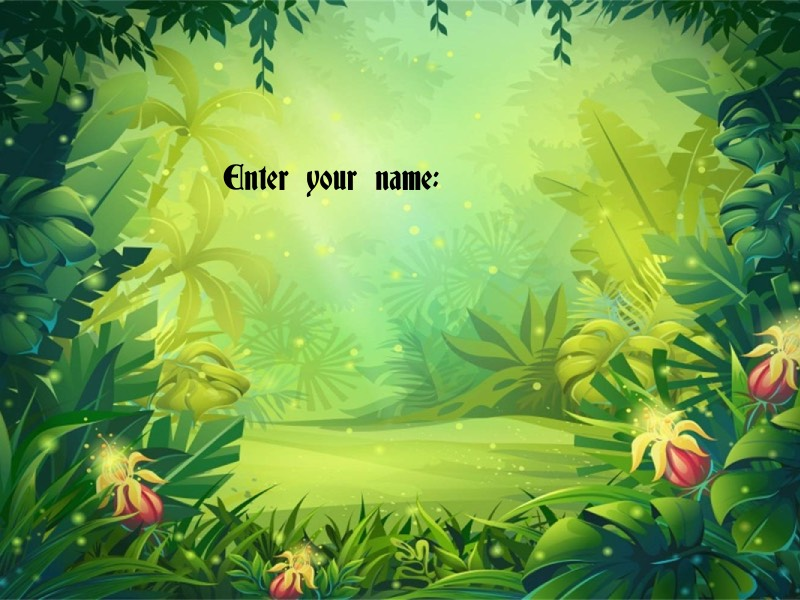
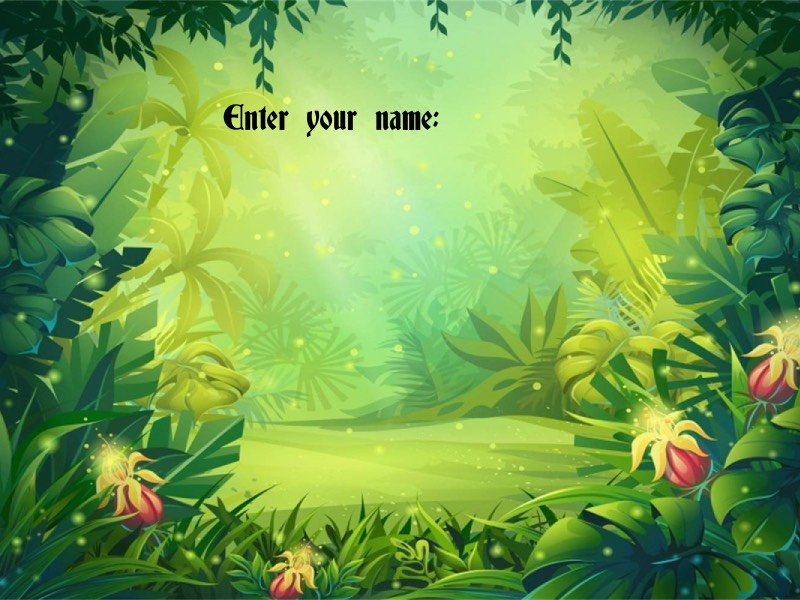
MySketch

Changed region(s): [[0.2812, 0.27, 0.5625, 0.33], [0.2812, 0.15, 0.5625, 0.24]]

diff --git a/src/ibongadarnagame/MySketch.java b/src/ibongadarnagame/MySketch.java
@@ -10,6 +10,8 @@ import processing.core.PImage;
  * @author 343330528
  */
 public class MySketch extends PApplet {
+    Player player; //Player object representing character
+    
     //Variables
     int stage = 0; //Current stage of the game starts at 0
     String userInput = ""; //Stores user input text
@@ -27,7 +29,9 @@ public class MySketch extends PApplet {
     int traitDistribution; //0 means neutral, 1 means high strength, 2 means high intelligence
     int currentStrengthPoints = 0; //Current number of character trait points assigned to strength
     int currentIntelligencePoints = 0; //Current number of character trait points assigned to intelligence
-    boolean pointsError = false; //True if not all character trait points have been distributed (error0
+    boolean pointsError = false; //True if not all character trait points have been distributed (error)
+    //Variables for Stage 2 (Fork in the Road)
+    boolean willFightBoar; //True if player chooses the path with the boar
     
     
     //Buttons
@@ -117,6 +121,14 @@ public class MySketch extends PApplet {
     PImage one;     //One point assigned to trait
     PImage two;     //Two points assigned to trait
     PImage pointsErrorMessage; //Error message for if character trait points have not been distributed
+    //Declare images for Stage 2 (Leaving Castle)
+    PImage castleBG; //Castle background
+    //Declare images for Stage 3 (Fork in the Road)
+    PImage forkInTheRoadBG; //Fork in the road background
+    //Declare iamges for Stage 4 (Encounter Boar)
+    PImage encounterBoarBG; //Background if user chooses path with the boar
+    PImage noBoarBG; //Background if user does not choose path with the boar
+    PImage boar; //Wild boar
     
     
     
@@ -127,7 +139,6 @@ public class MySketch extends PApplet {
     public void setup() {
         background(100, 100, 100); ////Set background
         textSize(20); //Set text size
-        Player player; //Player object representing character
         
         //Load images
         //Load images for Stage 0 (Main Menu)
@@ -183,6 +194,18 @@ public class MySketch extends PApplet {
         
         pointsErrorMessage = loadImage("images/pointserror.png");  //Error message for incomplete point distribution
         
+        //Load images for Stage 2 (Leaving Castle)
+        castleBG = loadImage("images/castlebg.jpg");  //Castle background
+        
+        //Load images for Stage 3 (Fork in the Road)
+        forkInTheRoadBG = loadImage("images/forkintheroadbg.jpg");  //Fork in the road background
+        
+        //Load images for Stage 4 (Encounter Boar)
+        encounterBoarBG = loadImage("images/encounterboarbg.jpg");  //Background if user chooses path with the boar
+        noBoarBG = loadImage("images/noboarbg.jpg");  //Background if user does not choose path with the boar
+        boar = loadImage("images/boar.png"); //Wild boar
+        
+        
         
     }
     
@@ -221,12 +244,17 @@ public class MySketch extends PApplet {
             //Set fill colour to black for user input text
             fill(0);
             //Display user input text
-            text(userInput, 450, 185);
+            text(userInput, 450, 125);
             
             //If user presses enter to confirm their chosen name but the name is not between 1 and 10 characters long
             if(nameError) 
-                image(nameErrorMessage, 225, 200); //Display error message regarding name length
-            ////Remember to set it back to false and put default name "don juan" as well as clothes
+                image(nameErrorMessage, 225, 140); //Display error message regarding name length
+            
+            //Draw character below name
+            if (customCharacter)
+                image(currentChoice, 312, 180); 
+            else
+                image(character1, 312, 180);
             
             
         
@@ -248,7 +276,7 @@ public class MySketch extends PApplet {
                 currentChoice = character3; //Set current character clothing choice to be displayed as character v3
             
             //Draw user's current character clothing choice (v1/v2/v3)
-            image(currentChoice, 0, 0);
+            image(currentChoice, 312, 167);
                 
             
             //Display button options
@@ -328,29 +356,63 @@ public class MySketch extends PApplet {
             image(pressSpaceToContinue, 280, 450);
             
             
-            /**
+            
             if (customName && customCharacter) {
                 if (chooseCharacter1)
-                    player = new Player(this, 0, 0, enteredName, int characterTraits, Inventory inventory, String imagePat);
+                    player = new Player(this, 155, 255, enteredName, traitDistribution, new Inventory(3), "images/chosenCharacter1.png");
                 else if (chooseCharacter2)
-                    player = new Player(this, 0, 0, enteredName, int characterTraits, Inventory inventory, String imagePat);
+                    player = new Player(this, 155, 255, enteredName, traitDistribution, new Inventory(3), "images/chosenCharacter2.png");
                 else
-                    player = new Player(this, 0, 0, enteredName, int characterTraits, Inventory inventory, String imagePat);
+                    player = new Player(this, 155, 255, enteredName, traitDistribution, new Inventory(3), "images/chosenCharacter3.png");
             } else if (customName) {
-                player = new Player(this, 0, 0, enteredName, int characterTraits, Inventory inventory);
+                player = new Player(this, 155, 255, enteredName, traitDistribution, new Inventory(3));
             } else if (customCharacter) {
                 if (chooseCharacter1)
-                   player = new Player(this, 0, 0, int characterTraits, Inventory inventory, String imagePat);
-               else if (chooseCharacter2)
-                   player = new Player(this, 0, 0, int characterTraits, Inventory inventory, String imagePat);
-               else
-                   player = new Player(this, 0, 0, int characterTraits, Inventory inventory, String imagePat);
+                   player = new Player(this, 155, 255, traitDistribution, new Inventory(3), "images/chosenCharacter1.png");
+                else if (chooseCharacter2)
+                   player = new Player(this, 155, 255, traitDistribution, new Inventory(3), "images/chosenCharacter2.png");
+                else
+                   player = new Player(this, 155, 255, traitDistribution, new Inventory(3), "images/chosenCharacter3.png");
             } else {
-                player = new Player(this, 0, 0, int characterTraits, Inventory inventory);
+                player = new Player(this, 155, 255, traitDistribution, new Inventory(3));
             }
-            * */
-                
-        } 
+           
+        //Leaving Castle
+        } else if (stage == 2) {
+            //Set castle background
+            background(castleBG);
+            player.draw(); //Draw character on the screen
+            player.move(2, 0); //Move character to the right
+            
+        //Fork in the Road
+        } else if (stage == 3) {
+            //Set fork in the road background
+            background(forkInTheRoadBG);
+            player.draw();
+            if (player.x < 240)
+                player.move(2, 0);
+            
+        //Encounter Boar
+        } else if (stage == 4) {
+            //If user chose path with the boar
+            if (willFightBoar) {
+                //Set background where user encounters boar
+                background (encounterBoarBG);
+                image(boar,420, 370); //Draw boar on the screen
+                player.draw(); //Draw character on the screen
+                if (player.x < 140) //Keep moving character until it reaches a specific point on the screen
+                    player.move(2, 0); //Move character to the right
+            //If user chose path without the boar
+            } else {
+                //Set background where user does not encounter boar
+                background (noBoarBG);
+                player.draw(); //Draw character on the screen
+                player.move(2, 0); //Move character to the right
+            }
+            
+            
+            
+        }
     }
     
     
@@ -556,10 +618,10 @@ public class MySketch extends PApplet {
     @Override
     public void keyPressed() {
         if (key == ' ') {
-            if (stage == -3)
+            if (stage == -3) {
                 stage = -1;
             //Spacebar is pressed in Stage 1 (Begin Story)
-            else if (stage == 1) {
+            } else if (stage == 1) {
                 if (currentScreen1 == 1) //If screen currently being shown is the first part of the story introduction
                     currentScreen1 = 2;
                 else if (currentScreen1 == 2) //If screen currently being shown is the second part of the story introduction
@@ -575,10 +637,20 @@ public class MySketch extends PApplet {
                 else {
                     stage = 2;
                     currentScreen1 = 1; //Reset screen to be shown for Stage 1 to the first part of the story introduction
-                }
-                    
+                }   
+            //Spacebar is pressed in Stage 2 (Leaving Castle)
+            } else if (stage == 2) {
+                stage = 3; //Go to next stage (Fork in the Road)
+                player.moveTo(-90, 255); //Set new player position
+            //Spacebar is pressed in Stage 4 (Encounter boar)
+            } else if (stage == 4) {
+                if (willFightBoar) //If user chose path with boar
+                    stage = 5; //Go to the boar fight minigame
+                else //If user chose path without boar
+                    stage = 6; //Go to the next stage (Meet hermit)
+                
             }
-        }
+        } 
         
         if (stage == -2) {
             if (keyCode == ENTER) { //If enter key is pressed
@@ -596,6 +668,20 @@ public class MySketch extends PApplet {
             } else if (key != CODED) { // checks if it is an ASCII character
                 userInput += key; // add each keystroke to user input string
             } // end nested if
+            
+        //Fork in the Road
+        } else if (stage == 3) {
+            //If user presses left arrow key
+            if (keyCode == LEFT) {
+                willFightBoar = false; //User will not play boar fight minigame
+                stage = 4; //Go to the next stage (Encounter Boar)
+                player.moveTo(-90, 255); //Set new player position
+            //If user presses right arrow key
+            } else if (keyCode == RIGHT){
+                willFightBoar = true; //User will play boar fight minigame
+                stage = 4; //Go to the next stage (Encounter Boar)
+                player.moveTo(-90, 255); //Set new player position
+            }
         }
         
     }

diff --git a/src/ibongadarnagame/Player.java b/src/ibongadarnagame/Player.java
@@ -12,7 +12,7 @@ import processing.core.PImage;
  */
 public class Player {
     //Instance Variables
-    private int x, y; //Position of the character
+    public int x, y; //Position of the character
     private String name; //Name of the player
     private int lives = 3;  //Player has 3 lives
     private int health; //Current health
@@ -27,7 +27,7 @@ public class Player {
     
     //Default Constants
     private static String DEFAULT_NAME = "Don Juan"; //Default player name
-    private static String DEFAULT_CLOTHES = "images/redShirt.png"; //Default character image
+    private static String DEFAULT_CLOTHES = "images/chosenCharacter1.png"; //Default character image
     private static int NORMAL_HEALTH = 500; //Normal health per life
     private static int HIGH_HEALTH = 700; //More HP for players with high strength
     
@@ -275,6 +275,16 @@ public class Player {
     
     public void draw() {
         app.image(image, x, y); //Draw the image at the character's position
+    }
+    
+    public void move(int dx, int dy) {
+        x += dx;
+        y += dy;
+    }
+    
+    public void moveTo(int dx, int dy) {
+        x = dx;
+        y = dy;
     }
     
 
